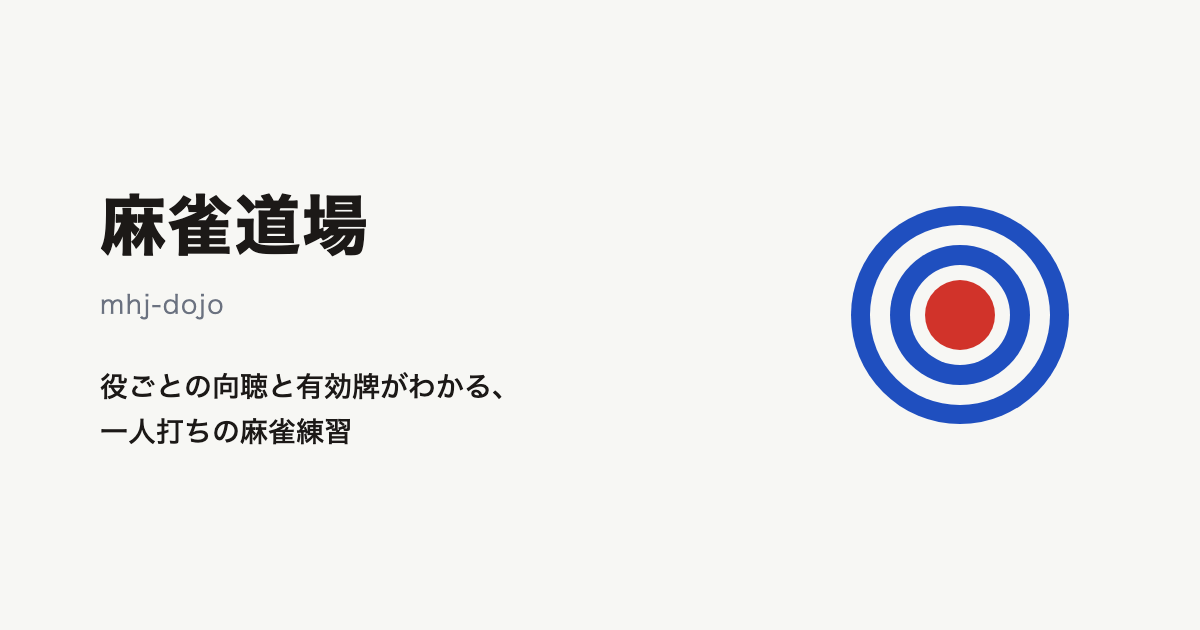
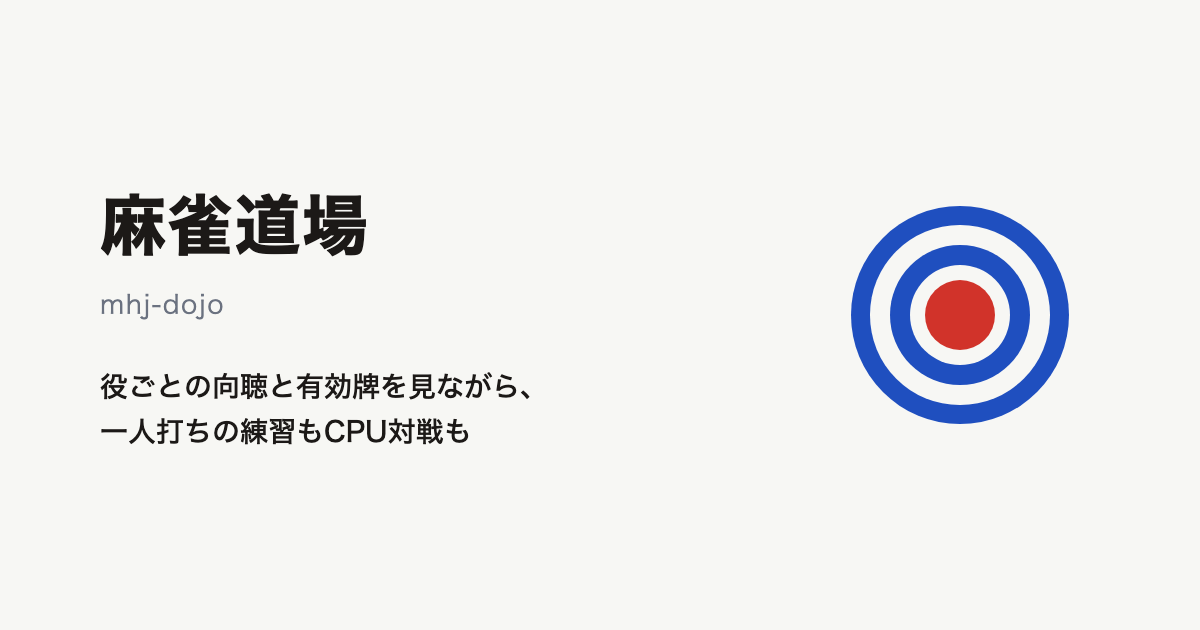
Web: describe the CPU games too in the page description and OG image
The description, og:description, twitter:description and the OG image
said 一人打ちの麻雀練習 only; the site has had CPU games since #114.
The help's intro says so as well.

🤖 Generated with Claude Code

Changed region(s): [[0.185, 0.6635, 0.4008, 0.7238], [0.3083, 0.573, 0.4317, 0.6333]]

diff --git a/web/index.html b/web/index.html
@@ -6,7 +6,7 @@
     <!-- iOS turns long digit runs (the seed, the version) into phone-call links. -->
     <meta name="format-detection" content="telephone=no" />
     <title>mhj-dojo - 麻雀道場</title>
-    <meta name="description" content="役ごとの向聴と有効牌がわかる、一人打ちの麻雀練習" />
+    <meta name="description" content="役ごとの向聴と有効牌を見ながら、一人打ちの練習もCPU対戦もできる麻雀道場" />
     <meta name="theme-color" content="#f4f5f7" media="(prefers-color-scheme: light)" />
     <meta name="theme-color" content="#14161a" media="(prefers-color-scheme: dark)" />
     <!-- %BASE_URL% is Vite's own placeholder (resolved from `base` in
@@ -19,11 +19,11 @@
     <meta property="og:type" content="website" />
     <meta property="og:site_name" content="mhj-dojo 麻雀道場" />
     <meta property="og:title" content="mhj-dojo 麻雀道場" />
-    <meta property="og:description" content="役ごとの向聴と有効牌がわかる、一人打ちの麻雀練習" />
+    <meta property="og:description" content="役ごとの向聴と有効牌を見ながら、一人打ちの練習もCPU対戦もできる麻雀道場" />
     <meta property="og:locale" content="ja_JP" />
     <meta name="twitter:card" content="summary_large_image" />
     <meta name="twitter:title" content="mhj-dojo 麻雀道場" />
-    <meta name="twitter:description" content="役ごとの向聴と有効牌がわかる、一人打ちの麻雀練習" />
+    <meta name="twitter:description" content="役ごとの向聴と有効牌を見ながら、一人打ちの練習もCPU対戦もできる麻雀道場" />
     <!-- og:url / og:image / twitter:image are absolute and only make sense
          for the published site; the mhj-dojo-site-og-tags plugin
          (vite.config.ts) injects them for `--mode site` only, so the

diff --git a/web/src/components/Help.tsx b/web/src/components/Help.tsx
@@ -103,7 +103,7 @@ export function Help({ onShowGlossary }: HelpProps) {
             <section aria-labelledby="help-about">
               <h3 id="help-about">このアプリについて</h3>
               <p>
-                日本式リーチ麻雀の練習アプリです。一人打ちでツモと打牌を繰り返しながら、役ごとにあと何向聴か・どの牌が有効牌かを確認できます。
+                日本式リーチ麻雀の練習アプリです。一人打ちでツモと打牌を繰り返したり、CPU3人と東風戦・半荘戦を打ったりしながら、役ごとにあと何向聴か・どの牌が有効牌かを確認できます。
                 パソコンで動かすローカル版（<code>mhj-dojo</code> コマンド）と、ブラウザだけで動く公開版があります。
               </p>
             </section>
